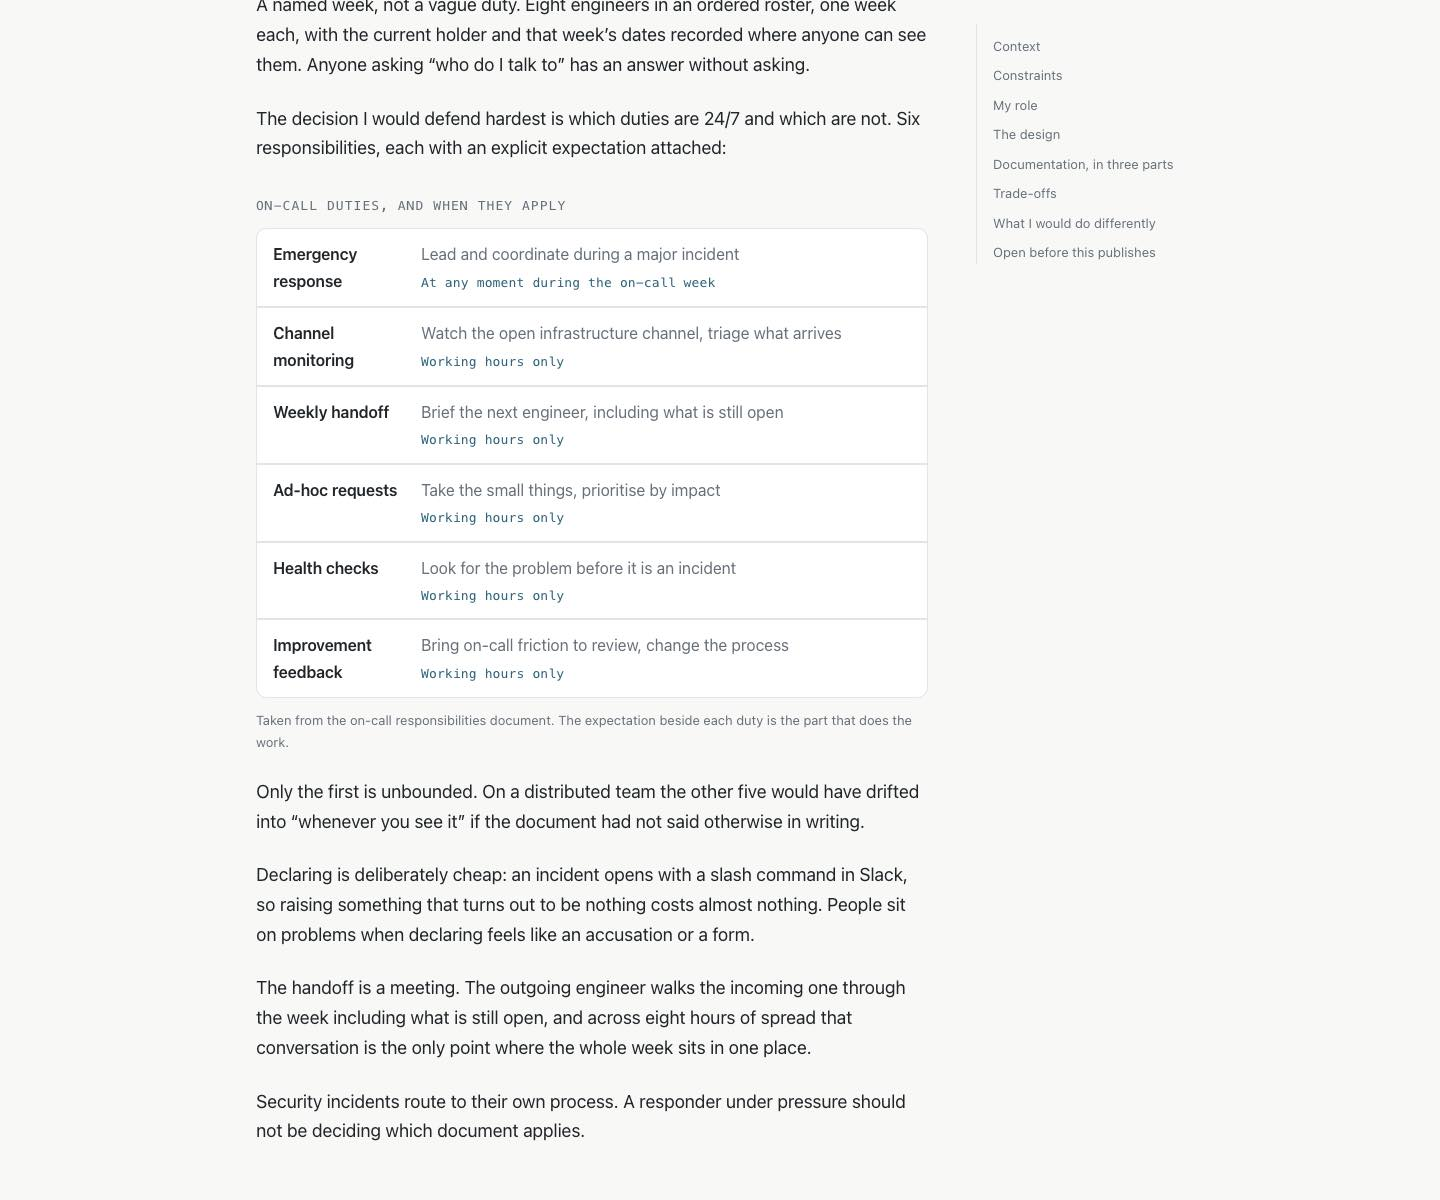
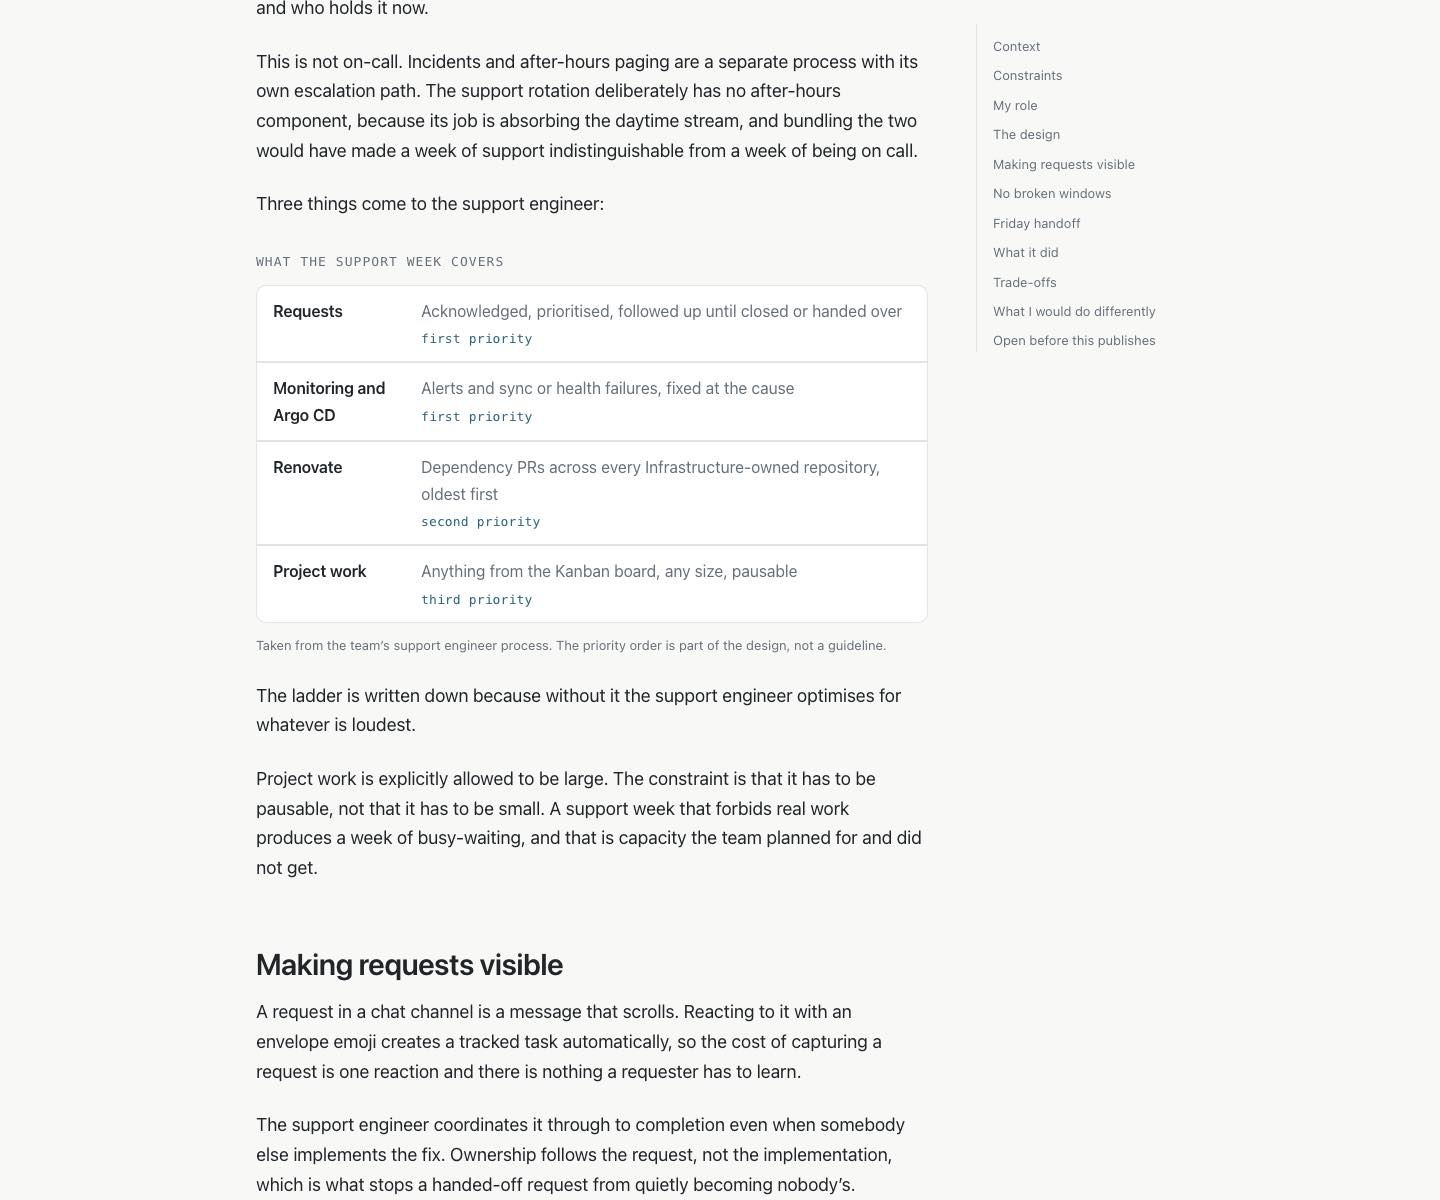
content: rewrite the support case study around the real process
The first version was built from the wrong document. I assembled it from
"On-Call Responsibilities for Infra-team" and the incident management hub,
and the headline claim was that one of six duties is 24/7. Lucas supplied the
actual Support Engineer process: Monday to Friday, working hours, no
after-hours component at all. On-call is a separate process with its own
escalation path. The two were conflated.

The real process is also a better story, and the argument is Lucas's: the
rotation exists so the rest of the team can hold on to project time, and its
second-order effect was spreading knowledge across every area.

That second effect is what the case study now builds to. The team was
organised around four areas with a lead each, which is why the structure
worked and also how an area becomes one person's private knowledge. A
rotation that puts every engineer in front of every area's requests, roughly
a week in eight, is the counterweight. The SRE specialist spends a week
merging CI/CD dependency upgrades; the CI/CD specialist spends a week inside
Argo CD sync failures. Nobody can route an area's questions permanently to
its owner, because in eight weeks they are answering them.

Mechanisms from the process document, all of which earn their place: the
explicit priority ladder, because without it the support engineer optimises
for whatever is loudest; project work allowed to be any size provided it is
[…]

diff --git a/content/work/support-engineering-rotation.md b/content/work/support-engineering-rotation.md
@@ -1,118 +1,149 @@
 ---
-title: "A Support Rotation for a Team Across Eight Time Zones"
+title: "One Engineer Takes the Interrupts So Seven Can Build"
 draft: true
 weight: 4
 featured: true
-metric: "1 of 6 duties is 24/7"
-metric_note: "the other five are work hours only"
-problem: "A platform team spread over an eight-hour range supported every game studio in the company. Without a boundary, the platform team becomes the escalation point for everything on the cluster."
-role: "Wrote the incident management and service ownership models, and the on-call responsibilities they run on"
-scale: "Eight engineers in a weekly rotation, four countries"
-outcome: "Support is a defined week: scoped duties, a named owner, a handoff meeting"
-stack: ["PagerDuty", "Datadog", "Slack", "Runbooks", "Blameless postmortems"]
-description: "The support engineer rotation at Fortis Games: one week each across eight engineers, five of six duties scoped to working hours, and an incident model built around declaring early."
+metric: "1 week in 8"
+metric_note: "every engineer rotates through every area"
+problem: "Infrastructure requests, alerts and dependency upgrades arrived continuously and landed on whoever saw them first, so project work was interrupted constantly and each area's knowledge stayed with its specialist."
+role: "Designed the rotation and wrote the process"
+scale: "Eight engineers, four countries, every Infrastructure-owned repository"
+outcome: "Interrupts have one owner per week; the other seven keep their project time, and everyone passes through every area in turn"
+stack: ["Argo CD", "Renovate", "ClickUp", "Slack", "Kanban"]
+description: "A weekly support engineer rotation at Fortis Games: one person absorbs requests, alerts and dependency upgrades, which protects everyone else's project time and spreads knowledge across every area of the platform."
 ---
 
-> Draft. The content comes from the team's own documents, but three things need checking
-> before this publishes. They are listed at the end.
+> Draft. Written from the team's own process document. Three things need checking before
+> this publishes; they are at the end.
 
 ## Context
 
-The platform team supported every game studio in the company and was spread across Brazil,
-Portugal, England and Canada. Eight hours of range means there is no hour when everyone is
-working and no hour when nobody is. The second half is the dangerous one: a team that
-always has somebody awake can end up expected to answer at any hour, because somebody
-always could.
+A platform team gets interrupted for a living. Requests for access, a service behaving
+oddly, an alert firing, a dependency upgrade waiting on review. None of it is optional and
+none of it is the project anyone is supposed to be working on this quarter.
 
-The service ownership model already said the platform team is not the escalation point for
-every problem on the cluster. Support is where that line holds or does not.
+Handled the obvious way, that work lands on whoever happens to see the message. The cost
+shows up twice. Project work gets fragmented, because an engineer who might be interrupted
+cannot plan a day around deep work. And the interrupts route themselves to whoever is known
+to answer them, which means they always reach the same person.
+
+The second cost was sharper for us than the first. The team was organised around four areas
+with a lead each: CI/CD, SRE, platform, AI infrastructure. Specialisation is why that
+structure works, and it is also how an area becomes one person's private knowledge. When
+every CI/CD question goes to the CI/CD people, nobody else ever learns CI/CD.
 
 ## Constraints
 
-Game traffic has no quiet hour, so something genuinely urgent has to reach a person fast.
-Most of what arrives is not that: a question, a permission, a thing that looks broken and
-is a misconfiguration. Treating all of it as urgent is how a platform team ends up with no
-time to build anything.
+Requests still had to be answered the same day. Pushing them into a backlog groomed next
+sprint turns a working platform into a ticket queue. The team also spanned four countries,
+so nothing could depend on everyone being online at once.
 
-Whatever I wrote also had to be followable by someone a week into the job, at the moment
-they are least able to go and ask.
+A dedicated support person was the obvious answer and the wrong one. A permanent support
+role fixes the interruption problem by making one engineer absorb it forever, which solves
+the focus half and makes the knowledge half worse.
 
 ## My role
 
-I wrote the incident management and service ownership models, and the on-call
-responsibilities the rotation runs on.
+I designed the rotation and wrote the process.
 
 ## The design
 
-A named week, not a vague duty. Eight engineers in an ordered roster, one week each, with
-the current holder and that week's dates recorded where anyone can see them. Anyone asking
-"who do I talk to" has an answer without asking.
+One engineer per week, Monday to Friday, working hours. The week is named in advance and
+the roster order is fixed, so everyone knows when their turn is coming and who holds it
+now.
 
-The decision I would defend hardest is which duties are 24/7 and which are not. Six
-responsibilities, each with an explicit expectation attached:
+This is not on-call. Incidents and after-hours paging are a separate process with its own
+escalation path. The support rotation deliberately has no after-hours component, because
+its job is absorbing the daytime stream, and bundling the two would have made a week of
+support indistinguishable from a week of being on call.
 
-{{< stack label="On-call duties, and when they apply" caption="Taken from the on-call responsibilities document. The expectation beside each duty is the part that does the work." >}}
-Emergency response :: Lead and coordinate during a major incident :: At any moment during the on-call week
-Channel monitoring :: Watch the open infrastructure channel, triage what arrives :: Working hours only
-Weekly handoff :: Brief the next engineer, including what is still open :: Working hours only
-Ad-hoc requests :: Take the small things, prioritise by impact :: Working hours only
-Health checks :: Look for the problem before it is an incident :: Working hours only
-Improvement feedback :: Bring on-call friction to review, change the process :: Working hours only
+The week has four claims on it, in a fixed order:
+
+{{< stack label="What the support week covers" caption="Taken from the team's support engineer process. The priority order is part of the design, not a guideline." >}}
+Requests :: Acknowledged, prioritised, followed up until closed or handed over :: first priority
+Monitoring and Argo CD :: Alerts and sync or health failures, fixed at the cause :: first priority
+Renovate :: Dependency PRs across every Infrastructure-owned repository, oldest first :: second priority
+Project work :: Anything from the Kanban board, any size, pausable :: third priority
 {{< /stack >}}
 
-Only the first is unbounded. On a distributed team the other five would have drifted into
-"whenever you see it" if the document had not said otherwise in writing.
+The ladder is written down because without it the support engineer optimises for whatever
+is loudest.
 
-Declaring is deliberately cheap: an incident opens with a slash command in Slack, so
-raising something that turns out to be nothing costs almost nothing. People sit on problems
-when declaring feels like an accusation or a form.
+Project work is explicitly allowed to be large. The constraint is that it has to be
+pausable, not that it has to be small. A support week that forbids real work produces a
+week of busy-waiting, and that is capacity the team planned for and did not get.
 
-The handoff is a meeting. The outgoing engineer walks the incoming one through the week
-including what is still open, and across eight hours of spread that conversation is the
-only point where the whole week sits in one place.
+## Making requests visible
 
-Security incidents route to their own process. A responder under pressure should not be
-deciding which document applies.
+A request in a chat channel is a message that scrolls. Reacting to it with an envelope
+emoji creates a tracked task automatically, so the cost of capturing a request is one
+reaction and there is nothing a requester has to learn.
 
-## Documentation, in three parts
+The support engineer coordinates it through to completion even when somebody else
+implements the fix. Ownership follows the request, not the implementation, which is what
+stops a handed-off request from quietly becoming nobody's.
 
-Every practice is written three times, and this is the pattern I would reuse. An overview
-says why the thing exists and when it applies. A template is the blank to fill in. A
-playbook says how to run it, including how to facilitate the meeting. Incident response has
-all three, so do blameless postmortems, so do tabletop exercises.
+## No broken windows
 
-The runbook guidance explains the split in one phrase: the template is designed for
-responders under pressure. A document that teaches and a document you follow at 3am are not
-the same document, and most teams ask one file to do both.
+For alerts and Argo CD failures the rule is explicit: do not let recurring failures or
+noisy alerts become something the team learns to ignore.
 
-Postmortems are blameless by design, with a facilitation playbook so the meeting does not
-drift into who touched it last. The piece I have seen least often elsewhere is the tabletop
-exercises, which have their own overview, template and playbook plus a record of the ones
-already run. A rotation of eight means most engineers lead few real severe incidents, so
-without rehearsal the first one they lead is live.
+That means fixing the underlying cause, and it also means editing the monitor when the
+monitor is what is wrong. A monitor that cries wolf is worse than no
+monitor, because it trains everyone to scroll past the channel where the real one will
+appear.
+
+If something cannot be fixed inside the week, it gets documented and given an owner.
+Unfixable-this-week is an acceptable outcome; unowned is not.
+
+## Friday handoff
+
+The handoff happens in the Friday team meeting, which already existed. It did not need a
+new meeting, and putting it in front of the whole team makes the week's state common
+knowledge, not a private briefing between two people.
+
+The outgoing engineer covers open requests and blockers, unresolved alerts and Argo CD
+failures, Renovate PRs still needing attention, and anything else the next engineer should
+know. Tasks are updated before the meeting, so the handoff is a conversation about state and not an
+attempt to reconstruct it.
+
+## What it did
+
+The direct effect is the one it was designed for. Seven engineers get a week where
+interrupts are somebody else's job, which makes a planned week actually plannable.
+
+The effect I did not design for is the one I would talk about now. Every engineer passes
+through every area, roughly a week in eight. The SRE specialist spends a week merging CI/CD
+dependency upgrades. The CI/CD specialist spends a week inside Argo CD sync failures.
+Nobody gets to route an area's questions permanently to the person who owns that area,
+because in eight weeks they will be answering them personally.
+
+That did more for cross-area knowledge than any documentation effort I ran. Writing things
+down helps the person who already knows where to look. A rotation makes people look.
 
 ## Trade-offs
 
-Scoping five duties to working hours means some things wait. A request raised late in a
-Brazil afternoon can sit until a Canada morning. That is the intended behaviour and it still
-costs real hours.
+One engineer in eight on support is around twelve percent of capacity spent on work that
+never appears on a roadmap. That cost was always being paid, spread invisibly across
+everyone, where it could not be planned around or measured.
 
-A week is long enough that a bad one is heavy. Shorter shifts spread the load and add
-handoffs, which is where context goes missing.
+A specialist having a slow week in someone else's area is also a real cost. Requests take
+longer to resolve while the person holding them is learning. That is tuition, and it is
+also the mechanism.
+
+Weekly is long enough to see something through and short enough that the turn comes round
+often. Shorter would add handoffs, which is where state goes missing.
 
 ## What I would do differently
 
-Write the ownership boundary and the support rotation at the same time. The rotation
-answers "who is holding this week" and the ownership model answers "which things should
-arrive at all". The second question is the one that controls the volume, and it is the one
-I wrote first and revisited least.
+Measure it. I can describe what the rotation changed and I cannot show it, because nothing
+was instrumented before or after. Request volume and time to acknowledge were both
+available and neither was tracked, which makes the strongest claim here the one I can least
+support.
 
 ## Open before this publishes
 
-1. **Attribution.** The incident hub credits the team, while my record has me writing the
-   incident management and service ownership models. Which parts are mine, which are the
-   team's, and how should that read?
-2. **Outcomes.** There are no numbers here. Time to declare, incident volume, how often
-   the rotation was interrupted outside hours, anything measured before and after.
-3. **Rotation size.** Eight is what the roster shows now. Was it eight throughout, or did
-   it grow?
+1. **Numbers.** Anything measured before or after: request volume, time to acknowledge,
+   Renovate backlog depth, interrupts reaching non-support engineers.
+2. **Rotation size.** Eight is what the roster showed. Eight throughout, or did it grow?
+3. **Attribution.** Is the process document yours alone, or written with the area leads?
